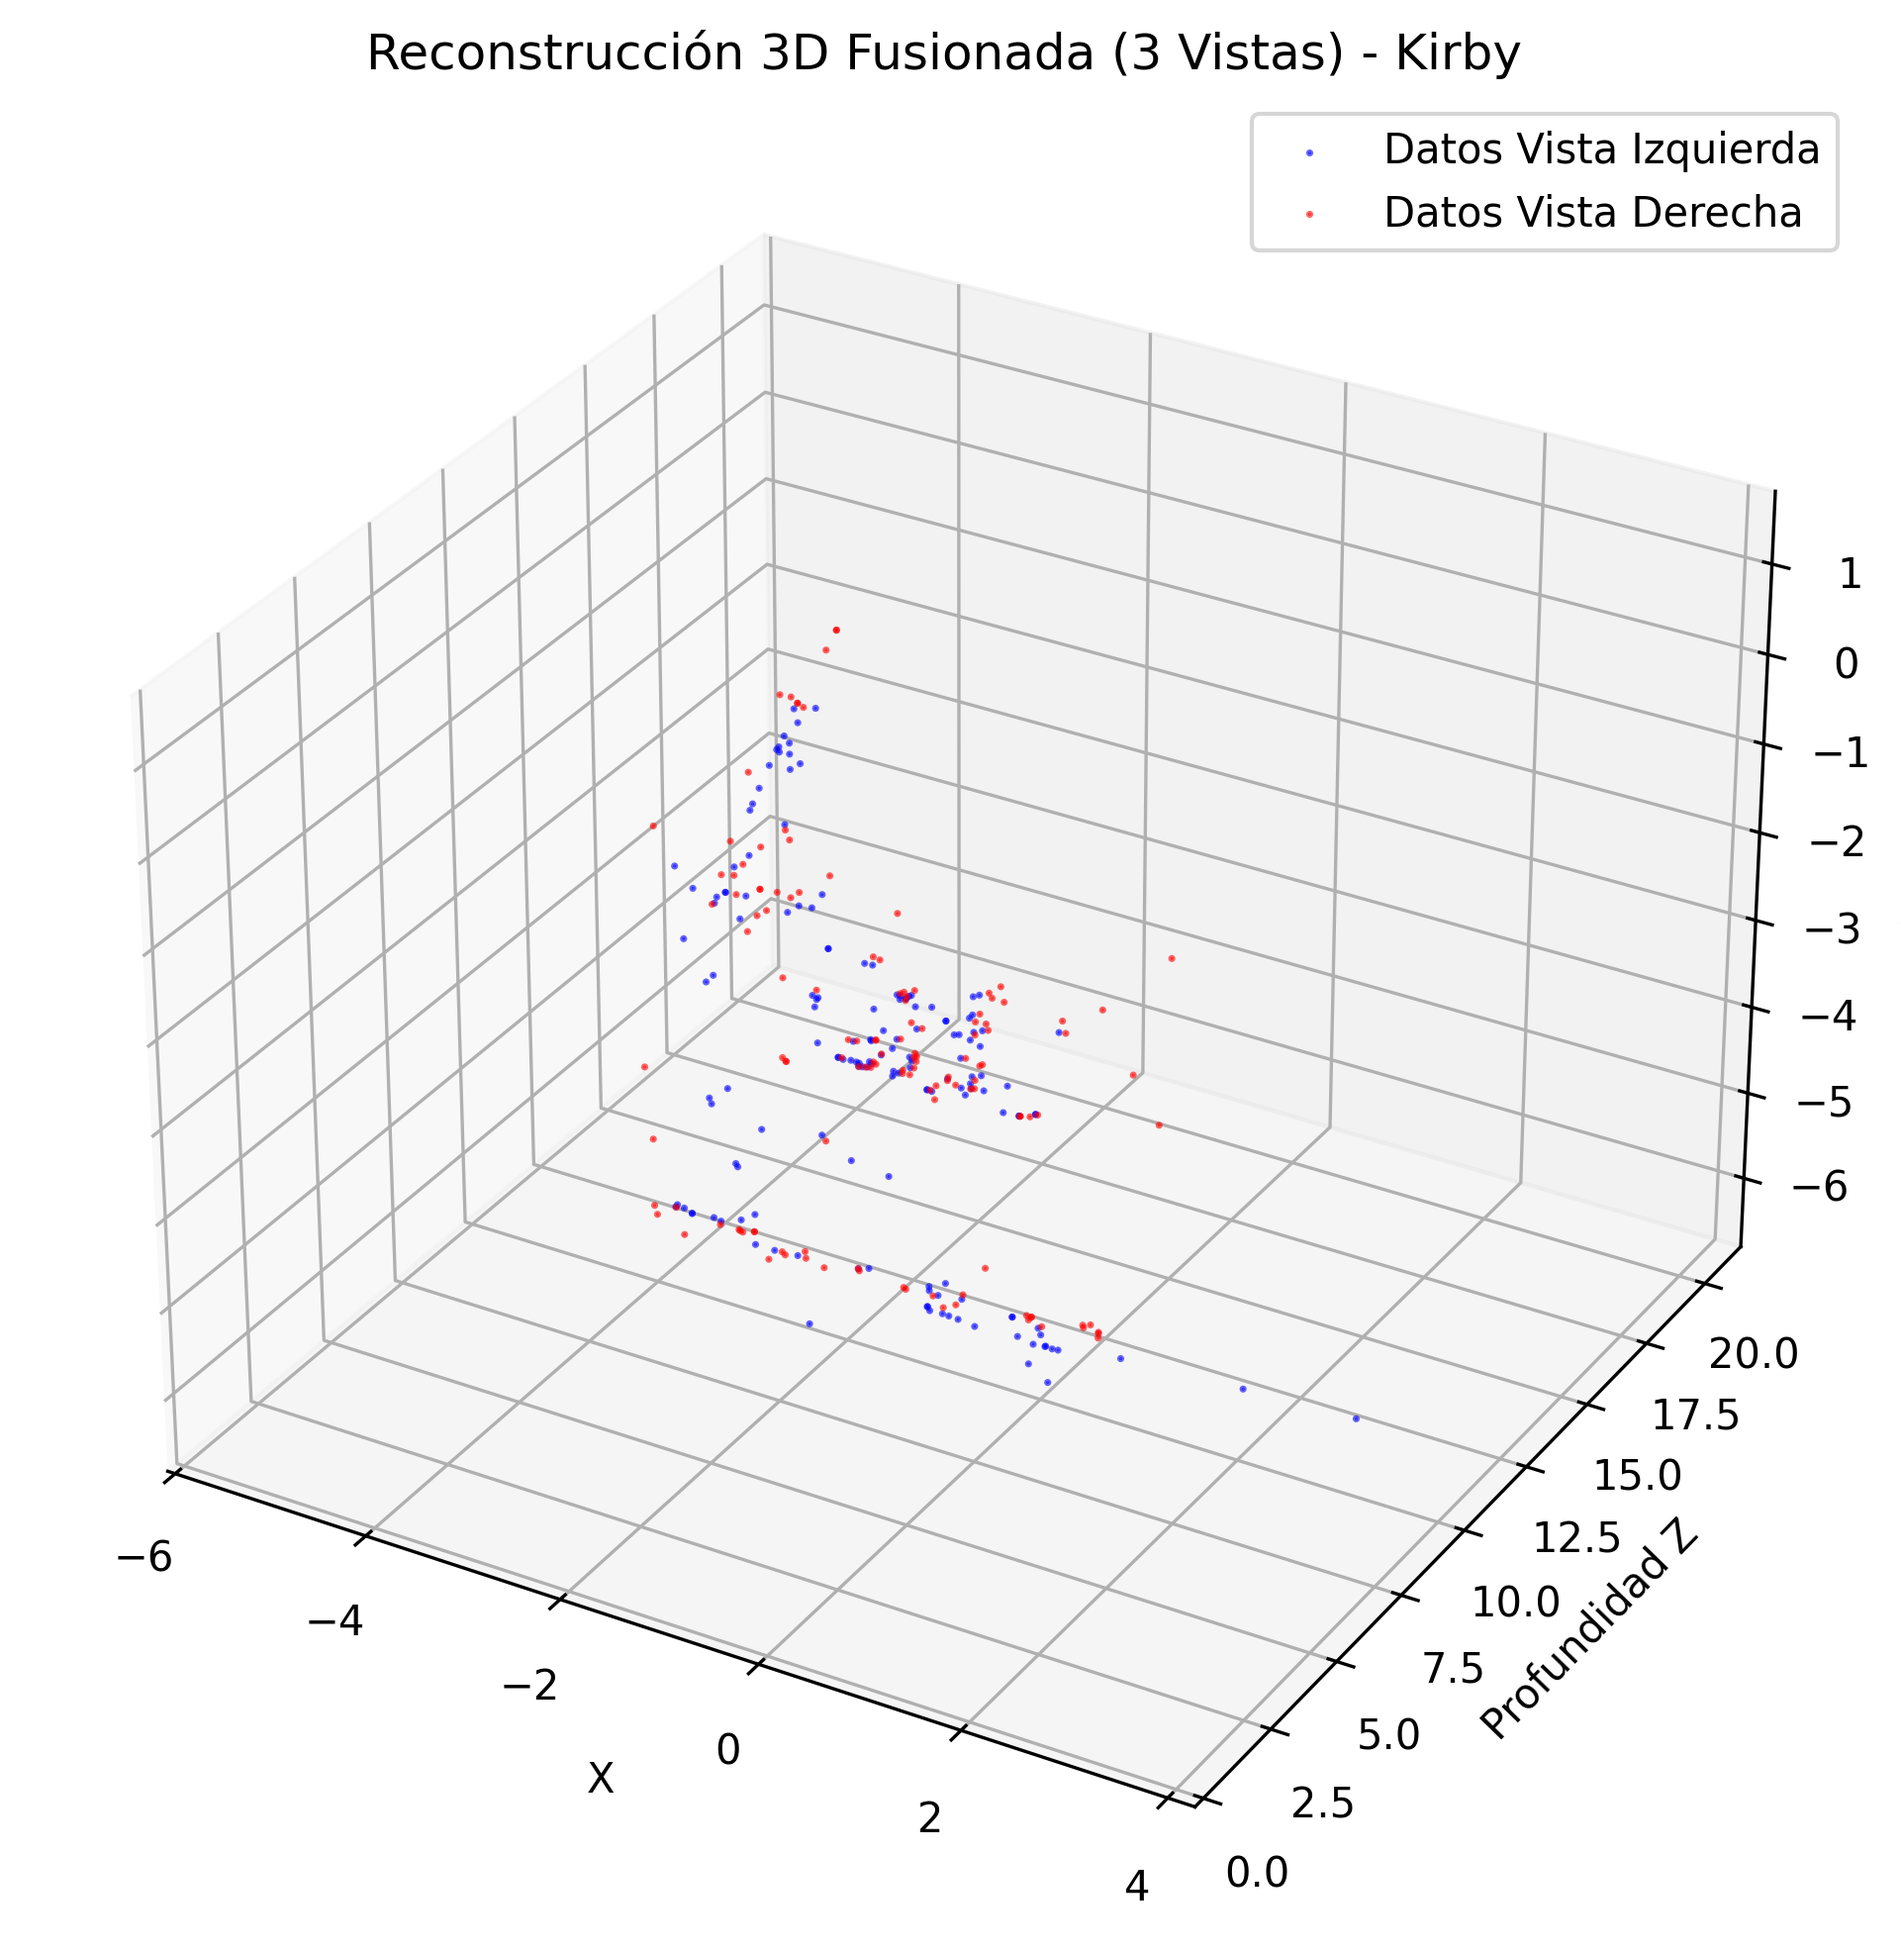
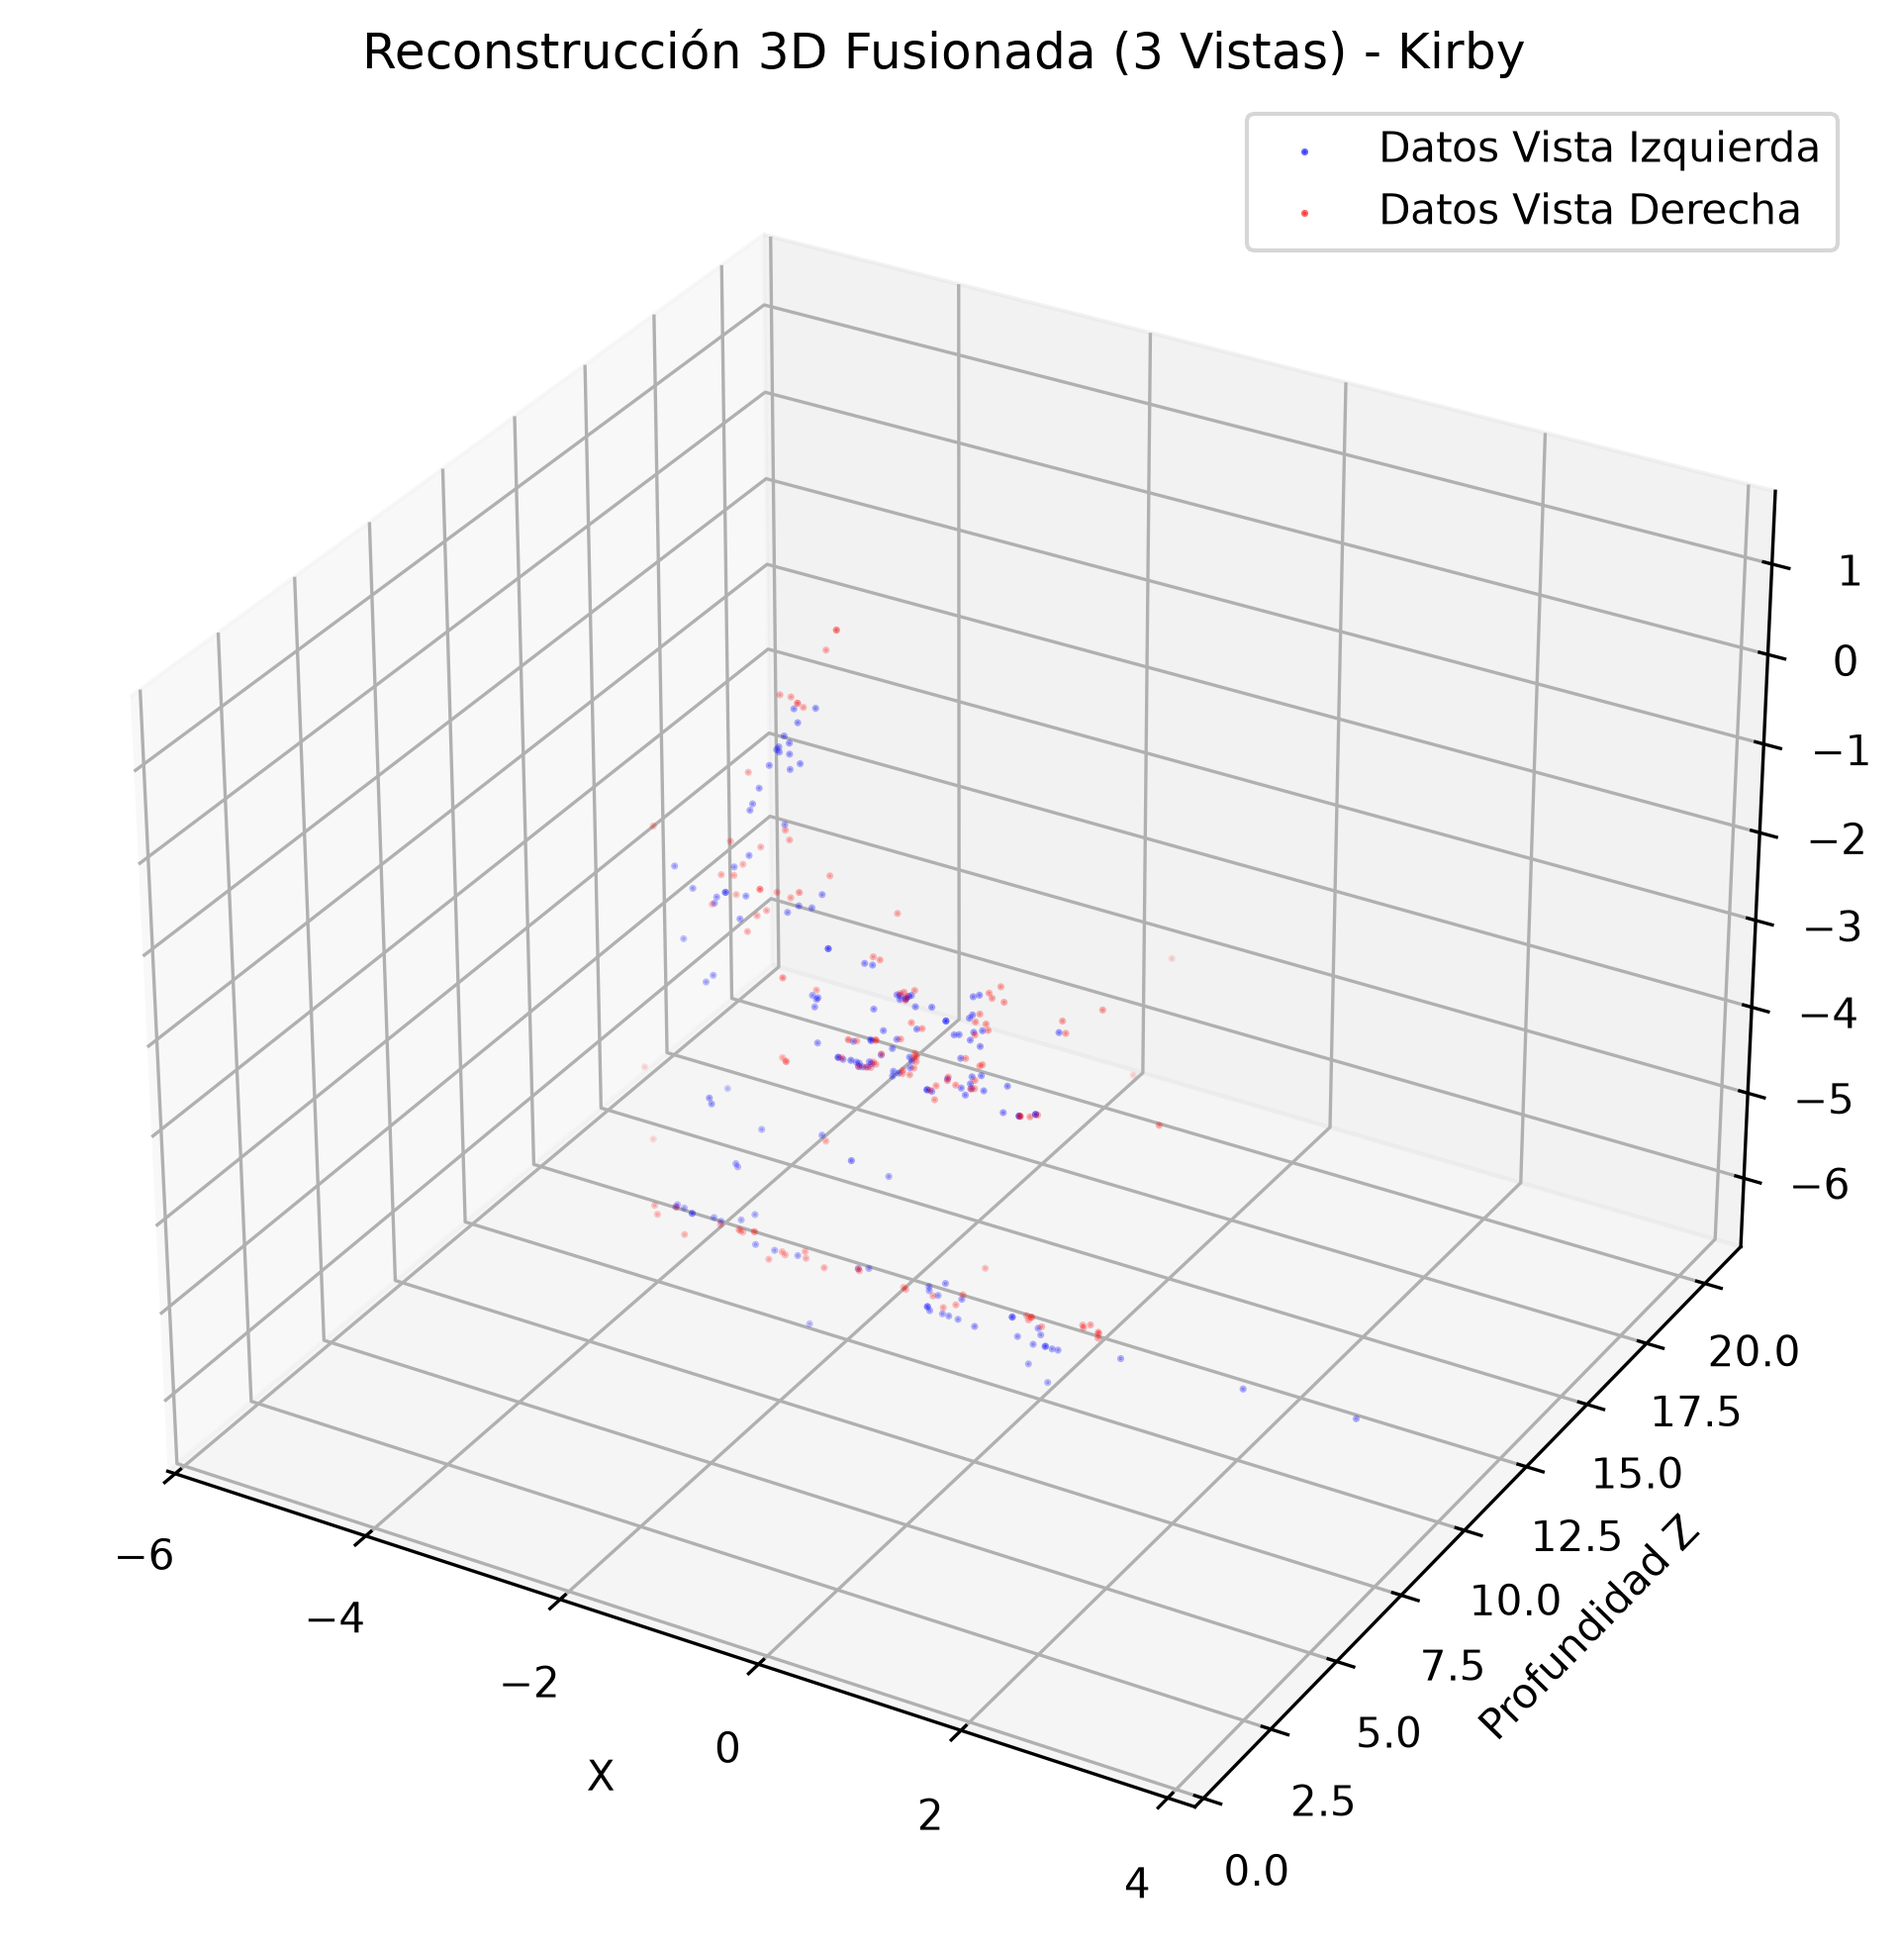
Modificacion del pipeline antiguo para lectura del dataset actual

diff --git a/total_points.py b/total_points.py
@@ -1,6 +1,7 @@
 import cv2
 import numpy as np
 import matplotlib.pyplot as plt
+import os
 
 # Triangulación y reconstrucción 3D usando SIFT entre tres imágenes
 # Este script será la extensión de medium_points.py ya que ahora uniremos las nubes de puntos entre las tres vistas para 
@@ -53,15 +54,13 @@ def obtener_nube_puntos(img_origen, img_destino, K, color_code):
     return points_3d
 
 
-def read_and_display_3d_reconstruction(folder_name):
-    # Cargar las 3 imágenes
-    img_left = cv2.imread('Img_prueba/' + folder_name + '/minus_15.jpeg', cv2.IMREAD_GRAYSCALE)
-    img_center = cv2.imread('Img_prueba/' + folder_name + '/front.jpeg', cv2.IMREAD_GRAYSCALE)
-    img_right = cv2.imread('Img_prueba/' + folder_name + '/plus_15.jpeg', cv2.IMREAD_GRAYSCALE)
-
+def read_and_display_3d_reconstruction(img_left, img_center, img_right, label):
+    """
+    Calcula y retorna las nubes de puntos 3D a partir de tres imágenes.
+    """
     if img_left is None or img_center is None or img_right is None:
-        print("Error: Faltan imágenes.")
-        exit()
+        print(f"Error: Faltan imágenes para {label}")
+        return None, None
 
     # Redimensionado igual que en medium_points.py
     scale = 100 
@@ -76,60 +75,98 @@ def read_and_display_3d_reconstruction(folder_name):
     K = np.array([[focal_length, 0, cx], [0, focal_length, cy], [0, 0, 1]])
 
     # En ambos casos, nuestro punto de referencia será la cámara central
-    print("Procesando centro e izquierda ====")
+    print(f"Procesando grupo: {label}")
     # Usamos el centro como ancla
     cloud_left = obtener_nube_puntos(img_center, img_left, K, 'b')
-
-    print("Procesando centro y derecha ====")
-    # Usamos el centro como ancla
     cloud_right = obtener_nube_puntos(img_center, img_right, K, 'r')
 
-    # Generando la visualización 3D fusionando ambas nubes
-    print("Generando visualización 3D")
-    fig = plt.figure(figsize=(10, 8))
-    ax = fig.add_subplot(111, projection='3d')
+    return cloud_left, cloud_right
 
-    # Función para limpiar y plotear puntos
-    def plot_cloud(cloud, color, label):
+def main():
+    ## Cargado de imágenes de la secuencia
+    print("Cargando imágenes de tripod_seq_20/")
+    
+    if not os.path.exists('tripod_seq_20'):
+        print("Error: La carpeta 'tripod_seq_20' no existe.")
+        return
+    
+    # Obtener todos los archivos .jpg de la carpeta
+    files = sorted([f for f in os.listdir('tripod_seq_20') if f.lower().endswith('.jpg')])
+    
+    if len(files) == 0:
+        print("Error: No hay archivos .jpg en tripod_seq_20/")
+        return
+    
+    print(f"Se encontraron {len(files)} imágenes")
+    
+    # Crear carpeta de salida
+    output_dir = os.path.join('visualizacion', 'tripod_seq_20')
+    if not os.path.exists(output_dir):
+        os.makedirs(output_dir)
+    
+    # Acumular todas las nubes de puntos
+    all_clouds_left = []
+    all_clouds_right = []
+    
+    # Obtener primera imagen para escala
+    first_img = cv2.imread(os.path.join('tripod_seq_20', files[1]), cv2.IMREAD_GRAYSCALE)
+    scale = 100
+    h, w = int(first_img.shape[0] * scale / 100), int(first_img.shape[1] * scale / 100)
+    
+    # Procesar cada grupo de 3 imágenes consecutivas (left, center, right)
+    for i in range(0, len(files) - 2, 3):
+        img_left_path = os.path.join('tripod_seq_20', files[i])
+        img_center_path = os.path.join('tripod_seq_20', files[i + 1])
+        img_right_path = os.path.join('tripod_seq_20', files[i + 2])
+        
+        img_left = cv2.imread(img_left_path, cv2.IMREAD_GRAYSCALE)
+        img_center = cv2.imread(img_center_path, cv2.IMREAD_GRAYSCALE)
+        img_right = cv2.imread(img_right_path, cv2.IMREAD_GRAYSCALE)
+        
+        label = f"{files[i][:-4]}_{files[i+1][:-4]}_{files[i+2][:-4]}"
+        print(f"Procesando grupo: {label}")
+        
+        cloud_left, cloud_right = read_and_display_3d_reconstruction(img_left, img_center, img_right, label)
+        
+        if cloud_left is not None:
+            all_clouds_left.append(cloud_left)
+        if cloud_right is not None:
+            all_clouds_right.append(cloud_right)
+    
+    # Generar visualización unida de todas las nubes
+    print("\nGenerando visualización 3D combinada de toda la secuencia...")
+    fig = plt.figure(figsize=(14, 10))
+    ax = fig.add_subplot(111, projection='3d')
+    
+    # Función para plotear puntos
+    def plot_cloud(cloud, color, alpha=0.3):
         if cloud is None: return
         Xs = cloud[0]
         Ys = cloud[1]
         Zs = cloud[2]
         
-        # Quitamos los puntos muy lejanos o erróneos para que la visualización sea mejor
+        # Quitamos los puntos muy lejanos o erróneos
         mask = (abs(Xs) < w) & (abs(Ys) < h) & (Zs > 0) & (Zs < w*2)
         
-        ax.scatter(Xs[mask], Zs[mask], -Ys[mask], c=color, marker='.', s=2, label=label, alpha=0.6)
-
-    # Graficamos ambas nubes en el MISMO espacio
-    plot_cloud(cloud_left, 'blue', 'Datos Vista Izquierda')
-    plot_cloud(cloud_right, 'red', 'Datos Vista Derecha')
-
+        ax.scatter(Xs[mask], Zs[mask], -Ys[mask], c=color, marker='.', s=1, alpha=alpha)
+    
+    # Plotear todas las nubes izquierdas y derechas
+    for cloud in all_clouds_left:
+        plot_cloud(cloud, 'blue', alpha=0.2)
+    
+    for cloud in all_clouds_right:
+        plot_cloud(cloud, 'red', alpha=0.2)
+    
     ax.set_xlabel('X')
     ax.set_ylabel('Profundidad Z')
     ax.set_zlabel('Altura Y')
-    ax.set_title('Reconstrucción 3D Fusionada (3 Vistas) - ' + folder_name)
-    ax.legend()
-
-    # Guardando la reconstrucción 3D como imagen en movimiento
-    filename = 'visualizacion/' + folder_name + '/reconstruccion_3D_fusionada.png'
+    ax.set_title('Reconstrucción 3D Fusionada - Toda la Secuencia tripod_seq_20')
+    
+    # Guardar imagen
+    filename = os.path.join(output_dir, 'reconstruccion_3D_completa.png')
     plt.savefig(filename, dpi=300, bbox_inches='tight')
-    print("Imagen de reconstrucción 3D guardada como: " + filename)
+    print(f"Imagen de reconstrucción 3D combinada guardada como: {filename}")
     plt.show()
-
-def main():
-    ## Cargado de imágenes
-    print("Cargando imágenes")
-    Img_pruebas=["C_America", "Kirby", "Llama"]
-    print("Seleccionando carpeta de imágenes: C_America")
-    print("Generando reconstrucción 3D para la carpeta: C_America")
-    read_and_display_3d_reconstruction("C_America")
-    print("Seleccionando carpeta de imágenes: Kirby")
-    print("Generando reconstrucción 3D para la carpeta: Kirby")
-    read_and_display_3d_reconstruction("Kirby")
-    print("Seleccionando carpeta de imágenes: Llama")
-    print("Generando reconstrucción 3D para la carpeta: Llama")
-    read_and_display_3d_reconstruction("Llama")
 
 if __name__ == "__main__":
     main()
